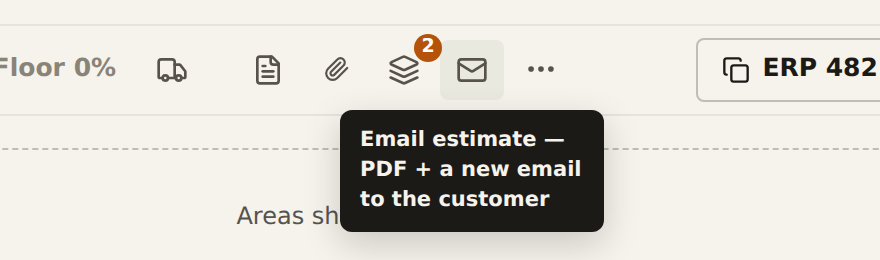
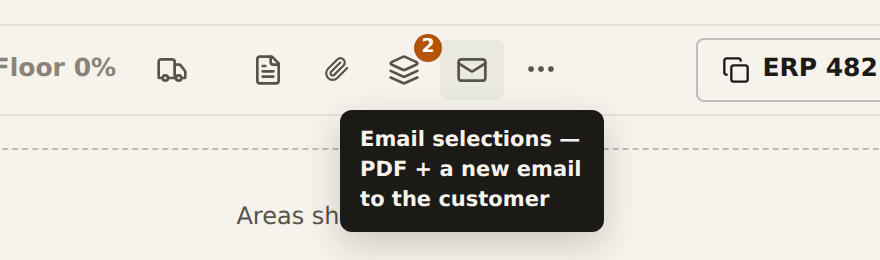
Email selections: subject "Selections - Customer - Project", empty body
Owner, 2026-10-02: these are selection sheets with pricing, not quotes or
estimates. The email's subject reads "Selections - <customer> - <project>"
(either part dropped when missing), the body is empty (mailto carries no
body, the share sheet no text), and the button's tip, the toasts and the
Safari retry button say "selections" / "selection sheet". The PDF name
stays "Customer - Project Name.pdf".

Claude-Session: https://claude.ai/code/session_016ETALwEwgSF51igpYfp3YY

Changed region(s): [[0.4909, 0.4923, 0.675, 0.5846]]

diff --git a/src/App.jsx b/src/App.jsx
@@ -1456,19 +1456,19 @@ export default function App({ user, onSignOut }) {
   // devices, saved + a pre-addressed email on computers (emailestimate.jsx).
   const emailEstimate = () => {
     if (emailBusy || !sel?._full) return;
-    const m = estimateMail({ cust: data.people.find((c) => c.id === sel.customerId), project: sel, salesperson: sel.salesperson || profile });
+    const m = estimateMail({ cust: data.people.find((c) => c.id === sel.customerId), project: sel });
     const share = !isWide || window.matchMedia?.("(pointer: coarse)")?.matches;
     // Copied up front, while the click still counts as a user gesture.
     if (share && m.to) navigator.clipboard?.writeText(m.to).catch(() => {});
     setEmailBusy(true);
-    ping("Building the estimate PDF…");
+    ping("Building the selection sheet PDF…");
     import("./emailestimate.jsx")
       .then((mod) => mod.emailEstimate({ ...m, paper: <EstimatePaper {...paperProps} />, share }))
       .then((r) => {
         if (r === "saved") ping("PDF saved to Downloads — drag it into the email");
         else if (r === "shared" && m.to) ping("Customer's email was copied — paste it into To");
       })
-      .catch(() => ping("Couldn't build the estimate PDF"))
+      .catch(() => ping("Couldn't build the selection sheet PDF"))
       .finally(() => setEmailBusy(false));
   };
 
@@ -1784,7 +1784,7 @@ export default function App({ user, onSignOut }) {
                             <div className="ft-mono text-[17px] font-bold" style={{ color: TIER_COLOR[tv.tier]?.main || "var(--ft-brand-deep)" }}>{money(grandTotal)}</div>
                           )}
                         </div>
-                        <button onClick={() => { setProjSheet(false); emailEstimate(); }} disabled={emailBusy} aria-label="Email estimate" title="Email estimate as a PDF" className="h-[38px] w-[40px] shrink-0 flex items-center justify-center rounded-md border border-slate-200 bg-white text-slate-600 disabled:opacity-50"><Mail size={16} /></button>
+                        <button onClick={() => { setProjSheet(false); emailEstimate(); }} disabled={emailBusy} aria-label="Email selections" title="Email the selection sheet as a PDF" className="h-[38px] w-[40px] shrink-0 flex items-center justify-center rounded-md border border-slate-200 bg-white text-slate-600 disabled:opacity-50"><Mail size={16} /></button>
                         <button onClick={() => { setProjSheet(false); setPrintMode("estimate"); }} style={TIER_COLOR[sel.priceTier] ? { background: TIER_COLOR[sel.priceTier].main } : undefined} className="h-[38px] shrink-0 flex items-center justify-center gap-1.5 text-[13px] font-bold rounded-md bg-indigo-600 hover:bg-indigo-700 text-white px-7"><Printer size={15} /> Print</button>
                       </>}>
                       <div className="space-y-3">

diff --git a/src/estimatemail.test.js b/src/estimatemail.test.js
@@ -2,27 +2,29 @@ import { test } from "node:test";
 import assert from "node:assert/strict";
 import { estimateMail } from "./estimatemail.js";
 
-test("names the PDF Customer - Project Name and addresses the customer", () => {
-  const m = estimateMail({ cust: { name: "Kathy Marsh", email: " kathy@example.com " }, project: { name: "Whole first floor" }, salesperson: { name: "Danny", phone: "(555) 210-0114" } });
-  assert.equal(m.filename, "Kathy Marsh - Whole first floor.pdf");
-  assert.equal(m.to, "kathy@example.com");
-  assert.equal(m.subject, "Estimate – Whole first floor");
-  assert.equal(m.body, "Hi Kathy,\n\nAttached is your estimate for Whole first floor. Let me know if you have any questions.\n\nThanks,\nDanny\n(555) 210-0114");
+test("subject reads Selections - Customer - Project, body empty, PDF Customer - Project", () => {
+  const m = estimateMail({ cust: { name: "Tom Bates", email: " tom@example.com " }, project: { name: "Kitchen remodel" } });
+  assert.equal(m.subject, "Selections - Tom Bates - Kitchen remodel");
+  assert.equal(m.body, "");
+  assert.equal(m.filename, "Tom Bates - Kitchen remodel.pdf");
+  assert.equal(m.to, "tom@example.com");
 });
 
-test("no customer: project name alone, blank To, no first name", () => {
-  const m = estimateMail({ cust: null, project: { name: "Quick price" }, salesperson: { name: "Sam" } });
+test("no customer: subject and PDF carry the project name alone, blank To", () => {
+  const m = estimateMail({ cust: null, project: { name: "Quick price" } });
+  assert.equal(m.subject, "Selections - Quick price");
   assert.equal(m.filename, "Quick price.pdf");
   assert.equal(m.to, "");
-  assert.ok(m.body.startsWith("Hi,\n"));
-  assert.ok(m.body.endsWith("Thanks,\nSam"));
 });
 
-test("characters a file name can't hold are dropped", () => {
+test("characters a file name can't hold are dropped from the PDF name only", () => {
   const m = estimateMail({ cust: { name: "Dan & Ruth Hartzler" }, project: { name: 'Kitchen / Bath 12"x24"' } });
   assert.equal(m.filename, "Dan & Ruth Hartzler - Kitchen Bath 12x24.pdf");
+  assert.equal(m.subject, 'Selections - Dan & Ruth Hartzler - Kitchen / Bath 12"x24"');
 });
 
-test("nothing named falls back to Estimate", () => {
-  assert.equal(estimateMail({ cust: { name: " " }, project: { name: "" } }).filename, "Estimate.pdf");
+test("nothing named falls back to Selections", () => {
+  const m = estimateMail({ cust: { name: " " }, project: { name: "" } });
+  assert.equal(m.filename, "Selections.pdf");
+  assert.equal(m.subject, "Selections");
 });

diff --git a/src/estimatemail.js b/src/estimatemail.js
@@ -1,13 +1,9 @@
-// What the Email estimate button fills in: the customer's address, the
-// subject and message, and the PDF's name ("Customer - Project Name", owner
-// 2026-10-02).
-export function estimateMail({ cust, project, salesperson }) {
-  const custName = (cust?.name || "").trim();
-  const projName = (project?.name || "").trim();
-  const filename = [custName, projName].filter(Boolean).join(" - ").replace(/[\\/:*?"<>|]+/g, "").replace(/\s+/g, " ").trim() || "Estimate";
-  const first = custName.split(/\s+/)[0];
-  const sp = salesperson || {};
-  const sign = [sp.name, sp.phone].map((s) => (s || "").trim()).filter(Boolean);
-  const body = [`Hi${first ? " " + first : ""},`, "", `Attached is your estimate${projName ? ` for ${projName}` : ""}. Let me know if you have any questions.`, "", "Thanks,", ...sign].join("\n");
-  return { to: (cust?.email || "").trim(), subject: projName ? `Estimate – ${projName}` : "Estimate", body, filename: filename + ".pdf" };
+// What the Email button fills in (owner 2026-10-02): the customer's address,
+// subject "Selections - Customer - Project" — these are selection sheets with
+// pricing, not quotes or estimates — an empty body, and the PDF's name
+// "Customer - Project Name".
+export function estimateMail({ cust, project }) {
+  const parts = [cust?.name, project?.name].map((s) => (s || "").trim()).filter(Boolean);
+  const filename = parts.join(" - ").replace(/[\\/:*?"<>|]+/g, "").replace(/\s+/g, " ").trim() || "Selections";
+  return { to: (cust?.email || "").trim(), subject: ["Selections", ...parts].join(" - "), body: "", filename: filename + ".pdf" };
 }

diff --git a/src/emailestimate.jsx b/src/emailestimate.jsx
@@ -97,7 +97,8 @@ async function renderPdf(paper) {
 
 export function mailtoUrl(to, subject, body) {
   const enc = encodeURIComponent;
-  return `mailto:${enc(to).replace(/%40/g, "@")}?subject=${enc(subject)}&body=${enc(body.replace(/\n/g, "\r\n"))}`;
+  const q = [`subject=${enc(subject)}`, ...(body ? [`body=${enc(body.replace(/\n/g, "\r\n"))}`] : [])].join("&");
+  return `mailto:${enc(to).replace(/%40/g, "@")}?${q}`;
 }
 
 // Safari drops the click's user activation while the PDF builds, so the first
@@ -105,7 +106,7 @@ export function mailtoUrl(to, subject, body) {
 function shareButton(data) {
   return new Promise((resolve) => {
     const btn = document.createElement("button");
-    btn.textContent = "Share estimate PDF";
+    btn.textContent = "Share selections PDF";
     btn.className = "fixed left-1/2 -translate-x-1/2 bottom-6 z-[100] rounded-full bg-indigo-600 text-white text-sm font-bold px-5 py-2.5 shadow-lg";
     const done = (r) => { btn.remove(); clearTimeout(t); resolve(r); };
     const t = setTimeout(() => done("cancelled"), 20000);
@@ -120,7 +121,7 @@ function shareButton(data) {
 export async function emailEstimate({ paper, to, subject, body, filename, share }) {
   const blob = await renderPdf(paper);
   const file = new File([blob], filename, { type: "application/pdf" });
-  const data = { files: [file], title: subject, text: body };
+  const data = { files: [file], title: subject, ...(body ? { text: body } : {}) };
   if (share && navigator.canShare?.({ files: [file] })) {
     try {
       await navigator.share(data);

diff --git a/src/projectheader.jsx b/src/projectheader.jsx
@@ -614,7 +614,7 @@ export function ProjectHeaderClean({ sel, cust, builderName, profile, freightCos
       </button>
     )}
     {onEmail && (
-      <button onClick={onEmail} disabled={emailBusy} aria-label="Email estimate" data-tip="Email estimate — PDF + a new email to the customer" className={ICON + " text-slate-500 disabled:opacity-50"}>
+      <button onClick={onEmail} disabled={emailBusy} aria-label="Email selections" data-tip="Email selections — PDF + a new email to the customer" className={ICON + " text-slate-500 disabled:opacity-50"}>
         <Mail size={16} />
       </button>
     )}

diff --git a/docs/adr/0055-email-estimate-shares-or-mails.md b/docs/adr/0055-email-estimate-shares-or-mails.md
@@ -11,7 +11,9 @@ the button splits by device. Phones and iPads (`!isWide` or a coarse pointer) ha
 to the system share sheet: the file is attached, but the sheet has no recipient slot, so the
 customer's email is copied to the clipboard first. Computers save the PDF to Downloads as
 `Customer - Project Name.pdf` and open a `mailto:` addressed to the customer with the subject
-and message filled in; the salesperson drags the PDF in. The team sends from Windows with
+`Selections - Customer - Project` and an empty body; the salesperson drags the PDF in. (The
+sheets are selection sheets with pricing, not quotes or estimates — owner, 2026-10-02; the
+first version's "Estimate – Project" subject and signed message were dropped the same day.) The team sends from Windows with
 the new Outlook or webmail, and the Windows share window can't reach Outlook on the web or
 Gmail in a tab, while a `mailto:` works with any default mail app.
 
@@ -40,4 +42,4 @@ load on the first click (ADR 0026).
   would draw a wider fallback face over a layout measured in Manrope; `emailestimate.jsx`
   fetches that stylesheet itself and inlines the latin Manrope files.
 - Safari can drop the click's user activation while the PDF builds; a refused share
-  raises a one-tap "Share estimate PDF" button that carries a fresh gesture.
+  raises a one-tap "Share selections PDF" button that carries a fresh gesture.

diff --git a/.scratch/167_email-estimate/ticket.md b/.scratch/167_email-estimate/ticket.md
@@ -12,15 +12,17 @@ Owner, 2026-10-02: a button about ⅓ the width of Print, between Order entry an
 that opens an email with the project attached as a PDF, To filled with the customer's
 email (blank when none). Only on the Clean header and the phone layout. PDFs named
 "Customer - Project Name". Same day: moved to a plain icon right after the Samples
-icon in the Clean header (the phone sheet keeps it beside Print).
+icon in the Clean header (the phone sheet keeps it beside Print). Then: these are
+selection sheets with pricing, not quotes or estimates — subject "Selections -
+Customer - Project", body empty; wording on the button/tips follows.
 
 Browsers can't attach a file to a `mailto:` email, so (owner picked after the options
 were laid out; the team sends from Windows new Outlook/webmail and iPads/phones):
 
 - **Phone / iPad** — the system share sheet with the PDF attached; the customer's email
   is copied first (the share sheet has no recipient slot).
-- **Computer** — the PDF saves to Downloads and a pre-addressed email opens (subject,
-  message signed with the salesperson); drag the PDF in.
+- **Computer** — the PDF saves to Downloads and a pre-addressed email opens (subject
+  "Selections - Customer - Project", empty body); drag the PDF in.
 
 Decision record: ADR 0055.
 

diff --git a/src/CLAUDE.md b/src/CLAUDE.md
@@ -542,8 +542,9 @@ src/
                     # Touch → share sheet (a refused share raises a one-tap Share
                     # button); else download + `mailto:`
   estimatemail.js   # what the email fills in: To (the customer's email or blank),
-                    # subject, message signed with the salesperson, and the PDF
-                    # name "Customer - Project Name.pdf" (estimatemail.test.js)
+                    # subject "Selections - Customer - Project" (selection sheets
+                    # with pricing, not estimates — owner), an EMPTY body, and the
+                    # PDF name "Customer - Project Name.pdf" (estimatemail.test.js)
   sheethead.jsx     # `SheetHead` — the selection-sheet masthead + people row +
                     # job notes, shared by the cards and columns sheets
   usetoast.js       # `useToast` — toast/save-flash UI state (`ping`, `flashSaved`)
